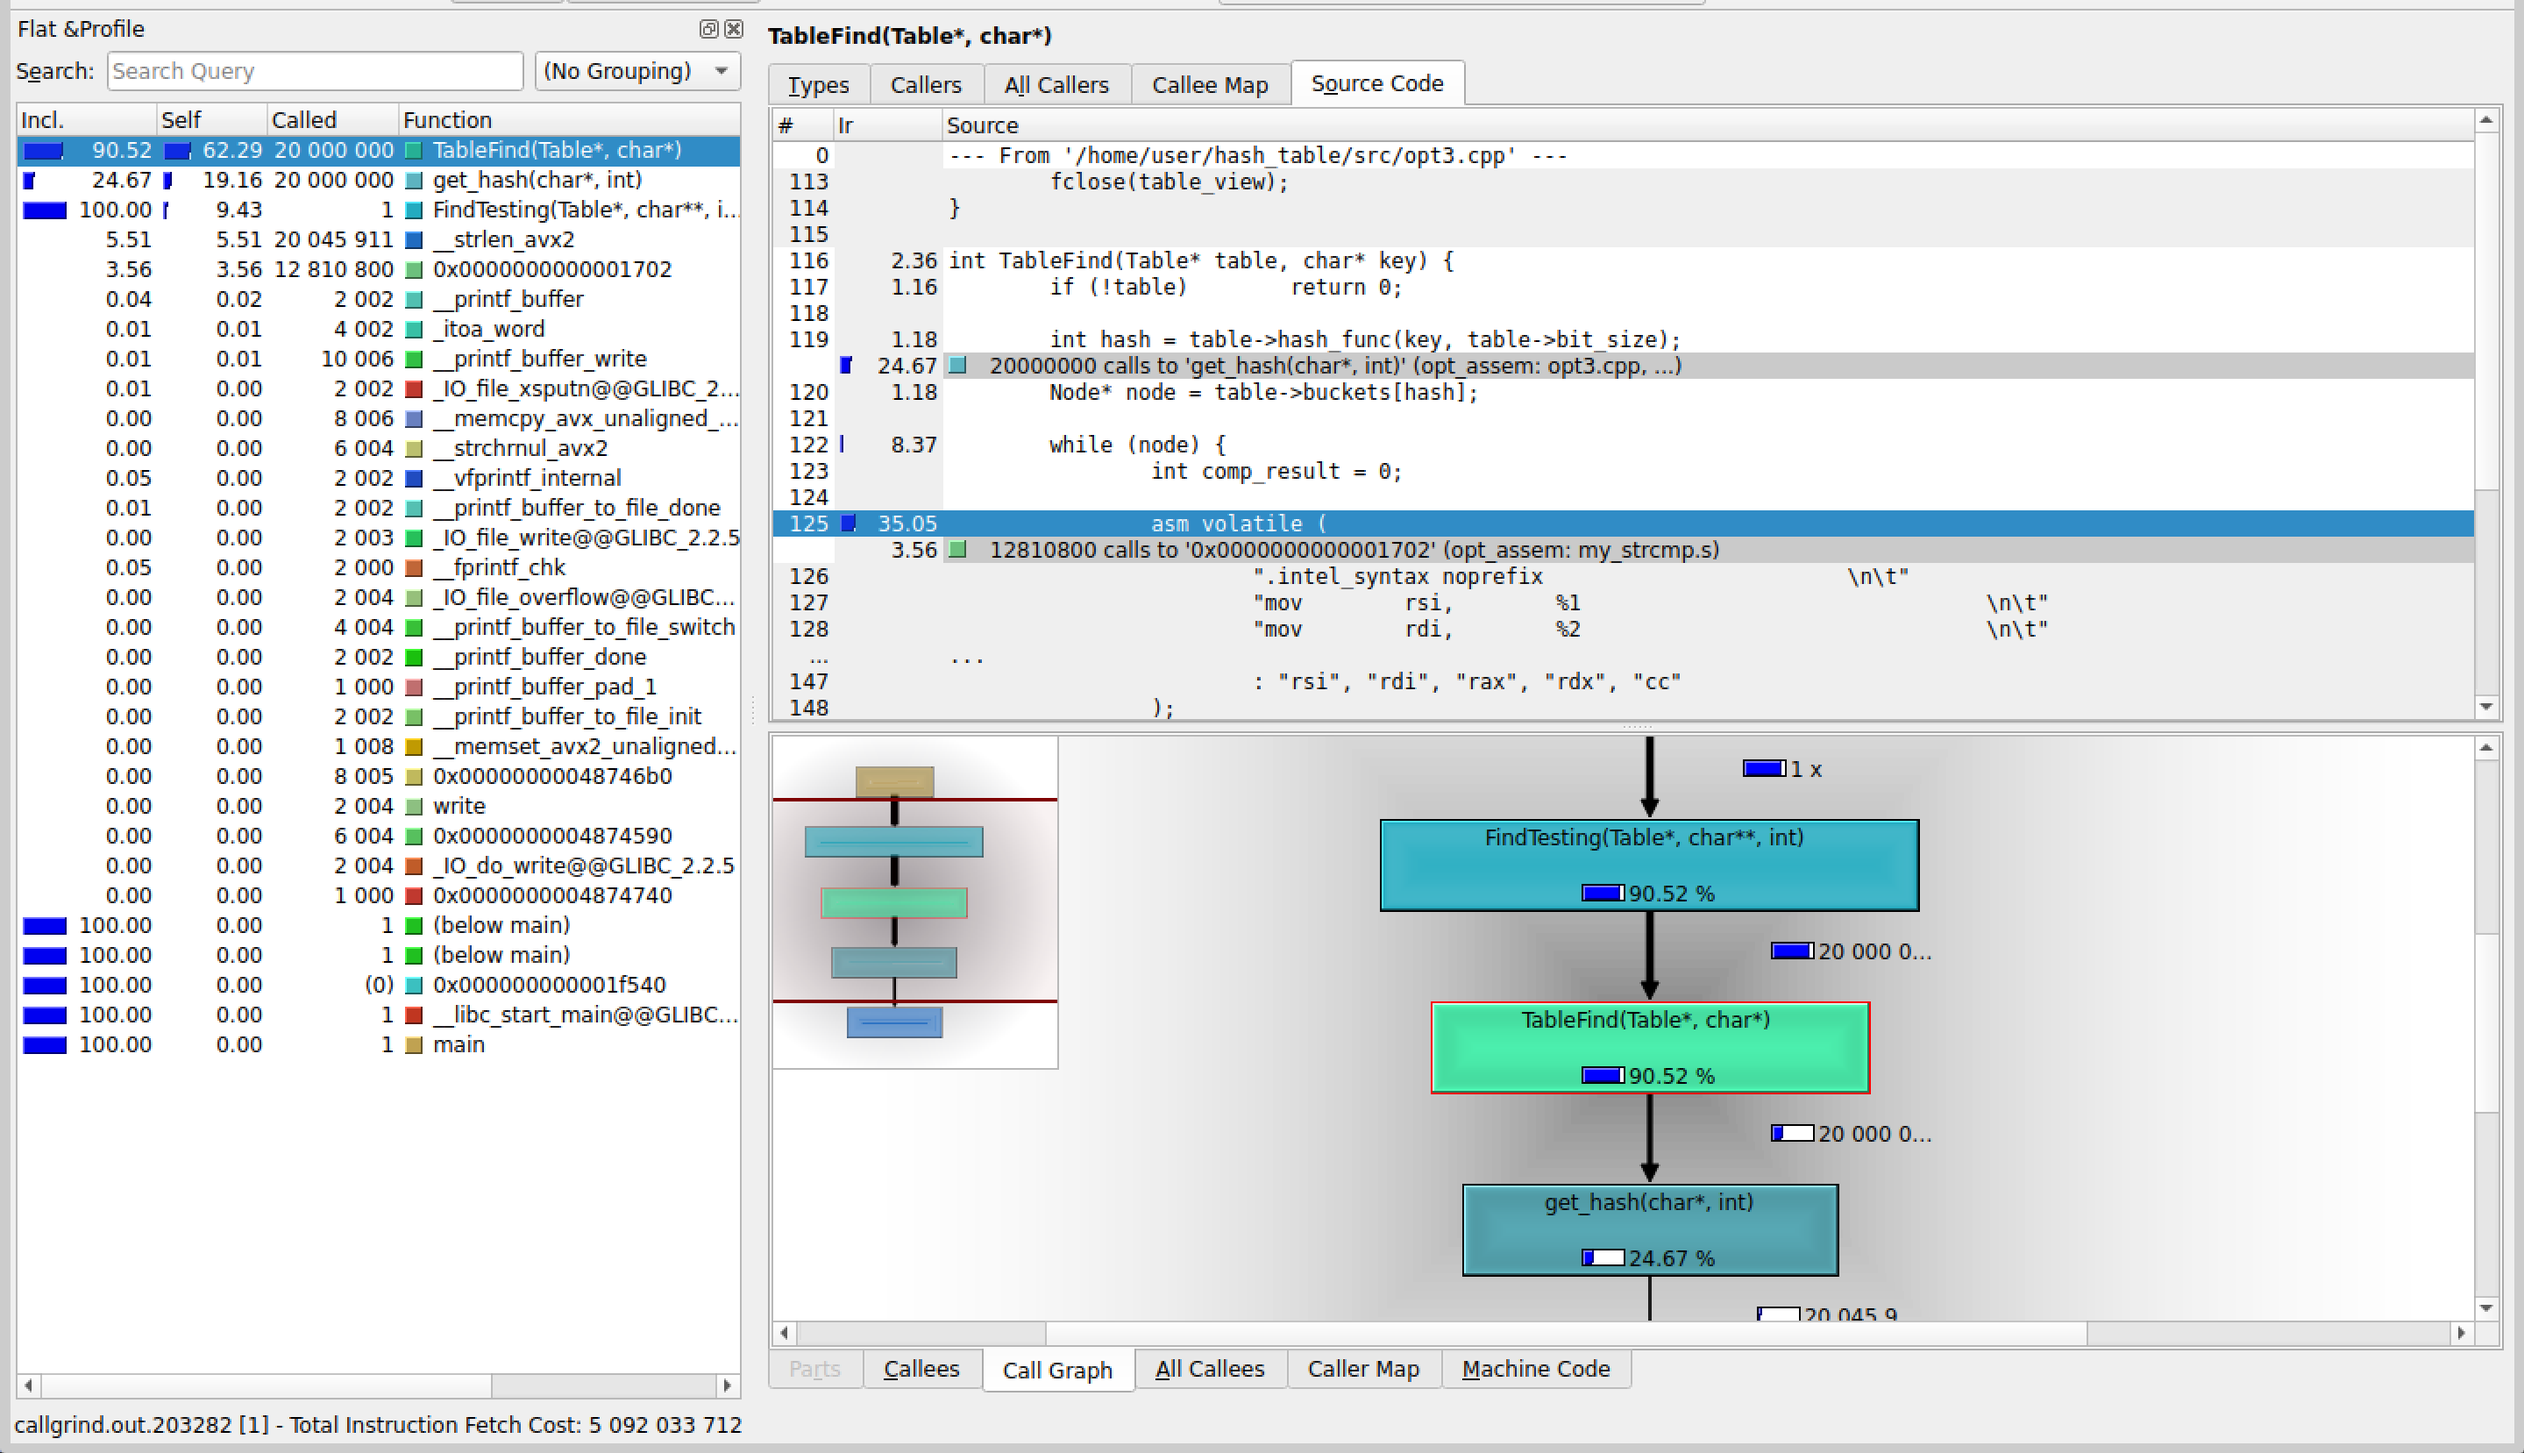
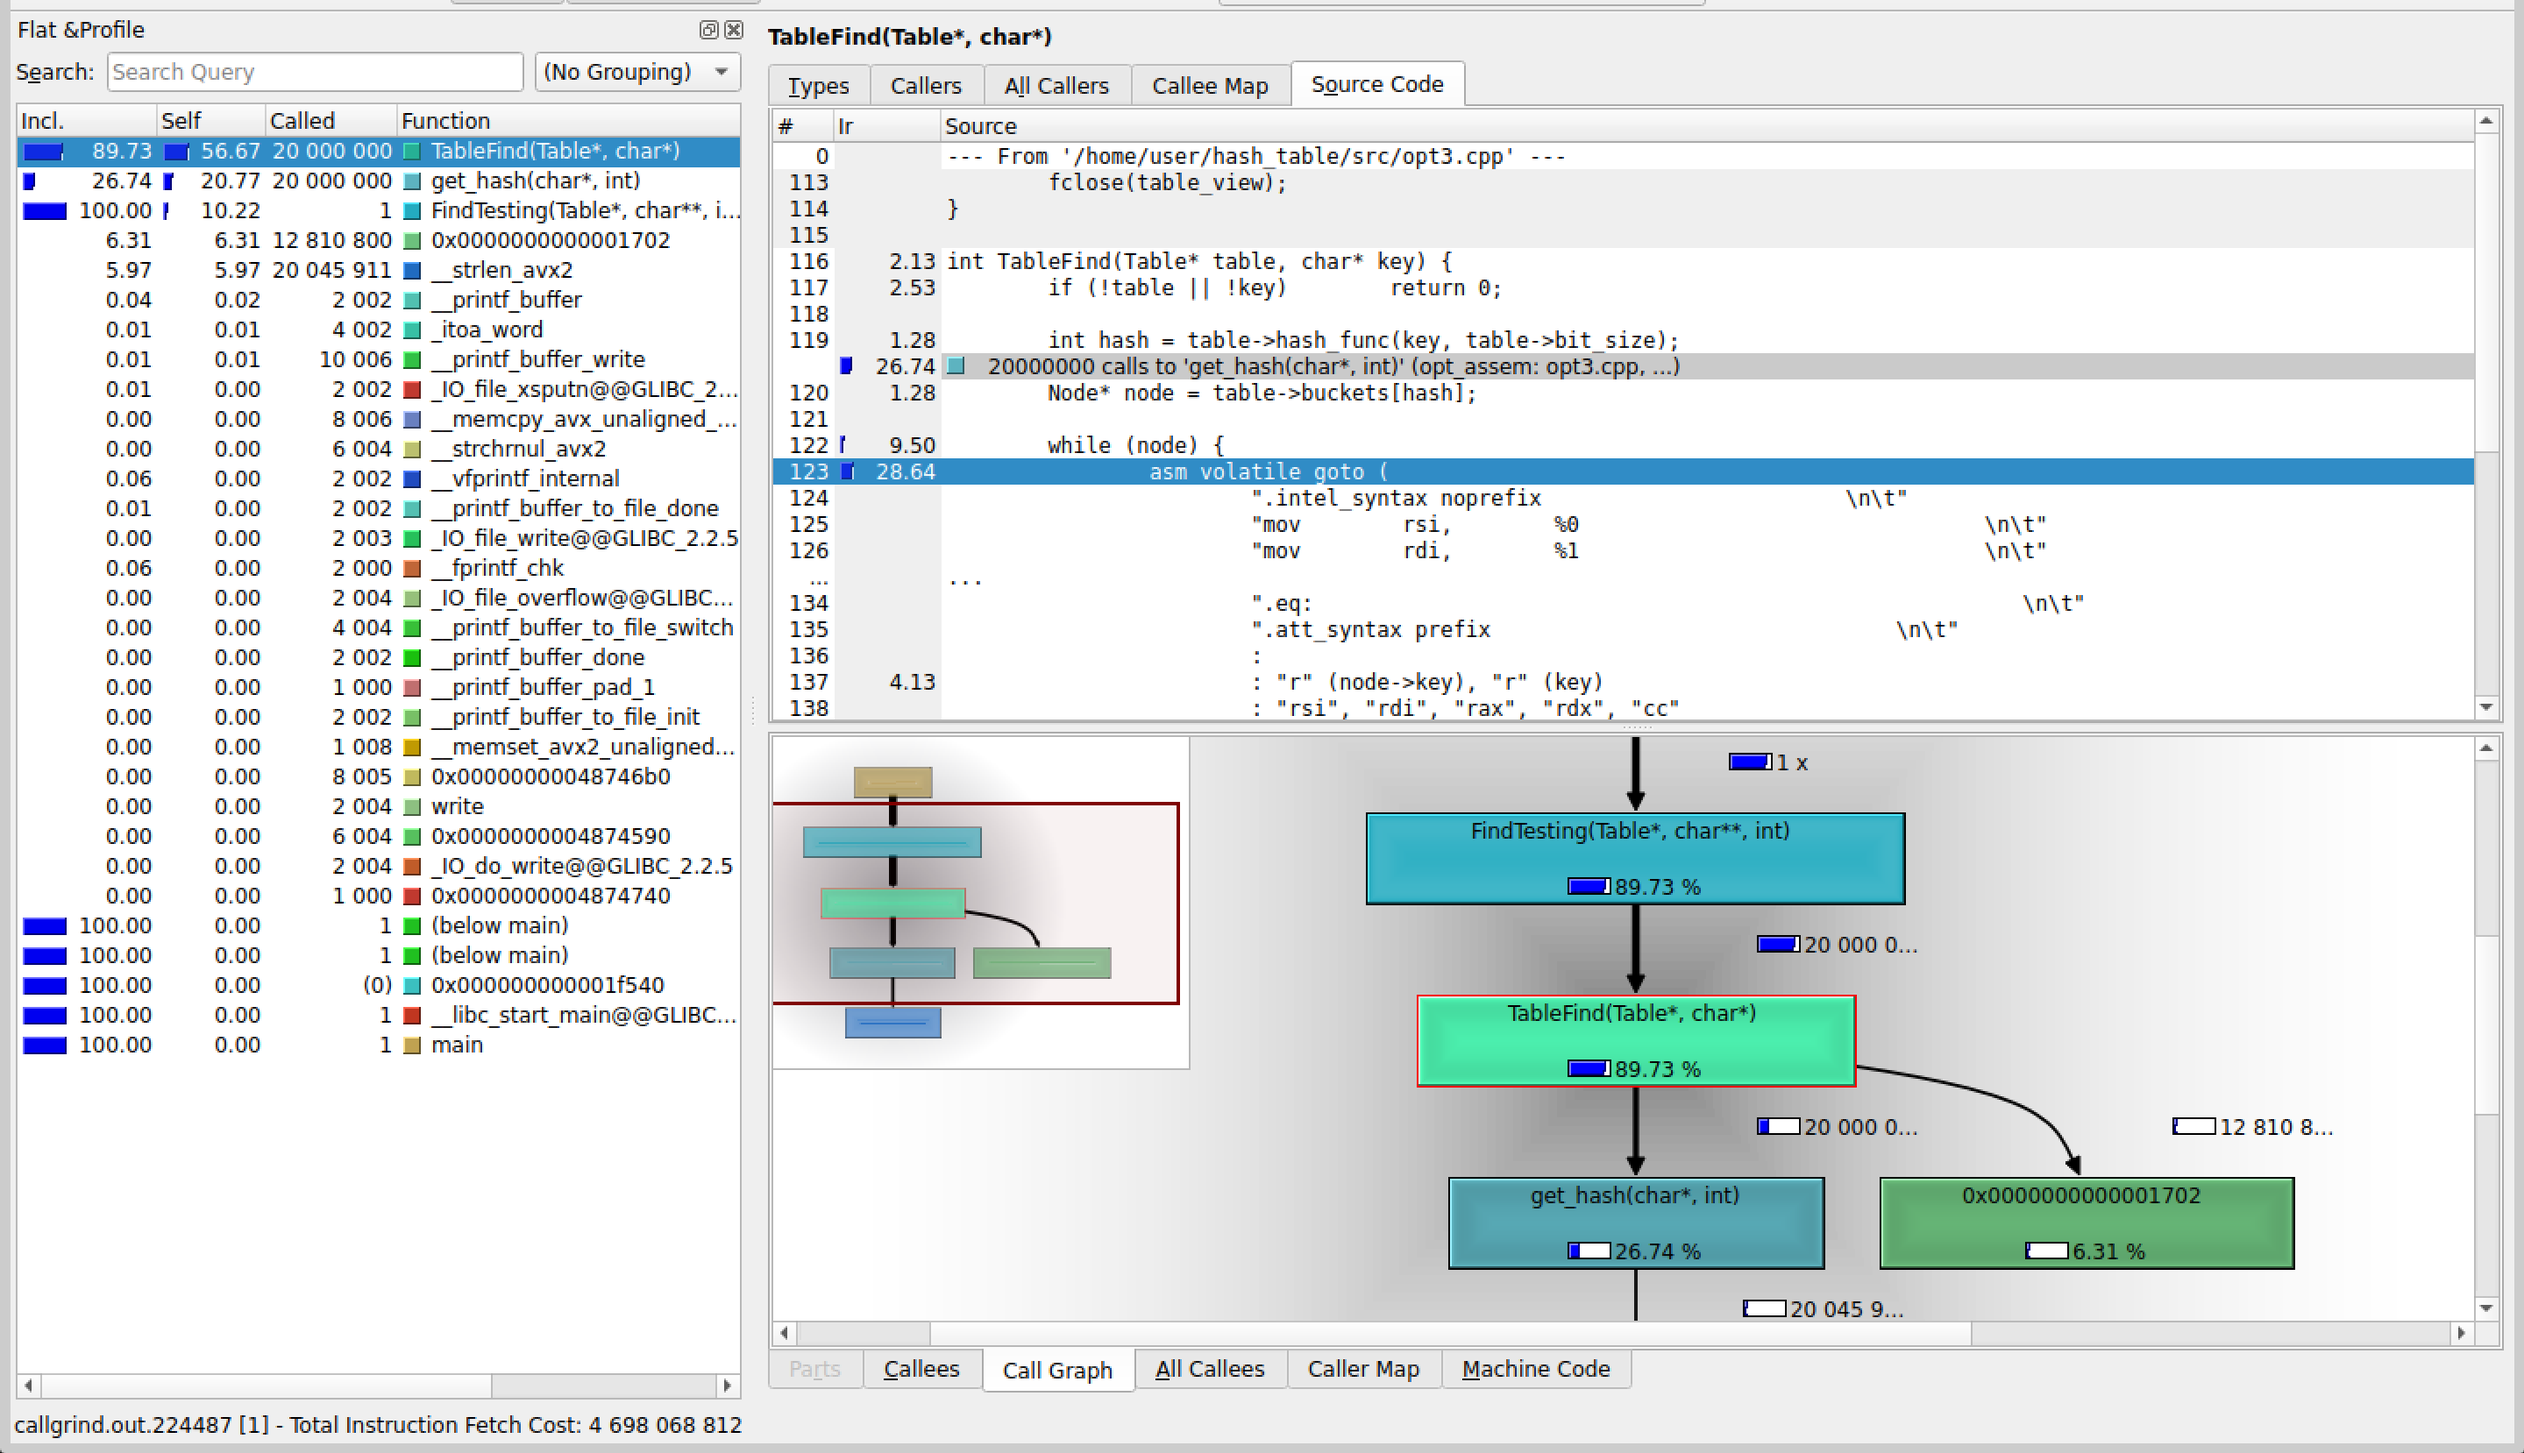
Пересчитанные результаты

diff --git a/results/all_res.md b/results/all_res.md
@@ -2,20 +2,20 @@
 
 | Номер замера | Среднее количество тиков |
 | :---: | :---: |
-| 1 | 445 |
-| 2 | 446 |
-| 3 | 447 |
-| 4 | 447 |
-| 5 | 448 |
-| 6 | 449 |
-| 7 | 450 |
+| 1 | 428 |
+| 2 | 430 |
+| 3 | 451 |
+| 4 | 456 |
+| 5 | 464 |
+| 6 | 465 |
+| 7 | 474 |
 
-Результаты без минимума и максимума: $446$, $447$, $447$, $448$, $449$
+Результаты без минимума и максимума: $430$, $451$, $456$, $464$, $465$
 
-Среднее количество тиков на <i>TableFind</i>: $447 
-													\pm 2$
+Среднее количество тиков на <i>TableFind</i>: $453 
+													\pm 16$
 
-Относительная погрешность: $0.36\%$
+Относительная погрешность: $3.61\%$
 
 ![До оптимизаций](../images/base.png)
 
@@ -54,30 +54,30 @@ my_strcmp:
 
 | Номер замера | Среднее количество тиков |
 | :---: | :---: |
-| 1 | 377 |
-| 2 | 380 |
-| 3 | 383 |
-| 4 | 387 |
-| 5 | 392 |
-| 6 | 393 |
-| 7 | 400 |
+| 1 | 383 |
+| 2 | 393 |
+| 3 | 395 |
+| 4 | 396 |
+| 5 | 399 |
+| 6 | 400 |
+| 7 | 410 |
 
-Результаты без минимума и максимума: $380$, $383$, $387$, $392$, $393$
+Результаты без минимума и максимума: $393$, $395$, $396$, $399$, $400$
 
-Среднее количество тиков на <i>TableFind</i>: $387 
+Среднее количество тиков на <i>TableFind</i>: $397 
 													\pm 8$
 
-Относительная погрешность: $1.94\%$
+Относительная погрешность: $1.90\%$
 
-Получили ускорение на $\frac{447 - 387}{447} * 100 =
-			13.42\% \pm 0.26$ $\%$ относительно -O3.
+Получили ускорение на $\frac{453 - 397}{453} * 100 =
+			12.36\% \pm 0.50$ $\%$ относительно -O3.
 
 Относительная погрешность ускорения: 
-			$\sqrt{0.36^2+1.94^2} =
-			1.97\%$
+			$\sqrt{3.61^2+1.90^2} =
+			4.08\%$
 
-Абсолютная погрешность: $13.42\% * 0.0197 = 
-			0.26\%$
+Абсолютная погрешность: $12.36\% * 0.0408 = 
+			0.50\%$
 
 ![1-я оптимизация](../images/opt_strcmp.png)
 
@@ -102,43 +102,43 @@ inline unsigned int opt_crc32(const uchar* data, int len) {
 
 | Номер замера | Среднее количество тиков |
 | :---: | :---: |
-| 1 | 369 |
-| 2 | 369 |
-| 3 | 371 |
-| 4 | 372 |
-| 5 | 374 |
-| 6 | 376 |
-| 7 | 387 |
+| 1 | 352 |
+| 2 | 358 |
+| 3 | 359 |
+| 4 | 360 |
+| 5 | 360 |
+| 6 | 360 |
+| 7 | 363 |
 
-Результаты без минимума и максимума: $369$, $371$, $372$, $374$, $376$
+Результаты без минимума и максимума: $358$, $359$, $360$, $360$, $360$
 
-Среднее количество тиков на <i>TableFind</i>: $372 
-													\pm 6$
+Среднее количество тиков на <i>TableFind</i>: $359 
+													\pm 3$
 
-Относительная погрешность: $1.62\%$
+Относительная погрешность: $0.89\%$
 
 Полученное ускорение:
 
-$\cdot$ на $\frac{387 - 372}{387} * 100 =
-			3.88\% \pm 0.10$ $\%$ относительно предыдущей версии.
+$\cdot$ на $\frac{397 - 359}{397} * 100 =
+			9.57\% \pm 0.20$ $\%$ относительно предыдущей версии.
 
 Относительная погрешность ускорения: 
-			$\sqrt{1.94^2+1.62^2} =
-			2.53\%$
+			$\sqrt{1.90^2+0.89^2} =
+			2.10\%$
 
-Абсолютная погрешность: $3.88\% * 0.0253 = 
-			0.10\%$
+Абсолютная погрешность: $9.57\% * 0.0210 = 
+			0.20\%$
 
 
-$\cdot$ на $\frac{447 - 372}{447} * 100 =
-			16.78\% \pm 0.28$ $\%$ относительно -O3.
+$\cdot$ на $\frac{453 - 359}{453} * 100 =
+			20.75\% \pm 0.77$ $\%$ относительно -O3.
 
 Относительная погрешность ускорения: 
-			$\sqrt{0.36^2+1.62^2} =
-			1.66\%$
+			$\sqrt{3.61^2+0.89^2} =
+			3.72\%$
 
-Абсолютная погрешность: $16.78\% * 0.0166 = 
-			0.28\%$
+Абсолютная погрешность: $20.75\% * 0.0372 = 
+			0.77\%$
 
 ![2-я оптимизация](../images/opt_crc32.png)
 
@@ -188,17 +188,17 @@ TableFind(Table*, char*):
         ret
 ```
 
-## Ассемблерная вставка, проверяющая первые два символа
+## Ассемблерная вставка, проверяющая первые символы строк
 
 ```c
 int TableFind(Table* table, char* key) {
-	if (!table)	return 0;
+	if (!table || !key)	return 0;
 
 	int hash = table->hash_func(key, table->bit_size);
 	Node* node = table->buckets[hash];
 
 	while (node) {
-		asm volatile (
+		asm volatile goto (
 			".intel_syntax noprefix			\n\t"
 			"mov	rsi,	%0				\n\t"
 			"mov	rdi,	%1				\n\t"
@@ -207,18 +207,19 @@ int TableFind(Table* table, char* key) {
 
 			"cmp	al,		dl				\n\t"
 			"je		.eq						\n\t"
-			"mov	eax, 	1				\n\t"
-			"ret							\n\t"
+			"jmp	%l[next_elem]			\n\t"
 
 			".eq:							\n\t"
 			".att_syntax prefix				\n\t"
 			:
 			: "r" (node->key), "r" (key)
 			: "rsi", "rdi", "rax", "rdx", "cc"
+			: next_elem
 		);
 
 		if (my_strcmp(node->key, key) == 0) return 1;
 
+	next_elem:
 		node = node->next;
 	}
 
@@ -228,42 +229,42 @@ int TableFind(Table* table, char* key) {
 
 | Номер замера | Среднее количество тиков |
 | :---: | :---: |
-| 1 | 99 |
-| 2 | 101 |
-| 3 | 102 |
-| 4 | 102 |
-| 5 | 102 |
-| 6 | 102 |
-| 7 | 105 |
+| 1 | 338 |
+| 2 | 340 |
+| 3 | 343 |
+| 4 | 344 |
+| 5 | 344 |
+| 6 | 345 |
+| 7 | 347 |
 
-Результаты без минимума и максимума: $101$, $102$, $102$, $102$, $102$
+Результаты без минимума и максимума: $340$, $343$, $344$, $344$, $345$
 
-Среднее количество тиков на <i>TableFind</i>: $102 
-													\pm 2$
+Среднее количество тиков на <i>TableFind</i>: $343 
+													\pm 3$
 
-Относительная погрешность: $1.61\%$
+Относительная погрешность: $0.83\%$
 
 Полученное ускорение:
 
-$\cdot$ на $\frac{372 - 102}{372} * 100 =
-			72.58\% \pm 1.65$ $\%$ относительно предыдущей версии.
+$\cdot$ на $\frac{359 - 343}{359} * 100 =
+			4.46\% \pm 0.05$ $\%$ относительно предыдущей версии.
 
 Относительная погрешность ускорения: 
-			$\sqrt{1.62^2+1.61^2} =
-			2.28\%$
+			$\sqrt{0.89^2+0.83^2} =
+			1.22\%$
 
-Абсолютная погрешность: $72.58\% * 0.0228 = 
-			1.65\%$
+Абсолютная погрешность: $4.46\% * 0.0122 = 
+			0.05\%$
 
 
-$\cdot$ на $\frac{447 - 102}{447} * 100 =
-			77.18\% \pm 1.27$ $\%$ относительно -O3.
+$\cdot$ на $\frac{453 - 343}{453} * 100 =
+			24.28\% \pm 0.90$ $\%$ относительно -O3.
 
 Относительная погрешность ускорения: 
-			$\sqrt{0.36^2+1.61^2} =
-			1.65\%$
+			$\sqrt{3.61^2+0.83^2} =
+			3.70\%$
 
-Абсолютная погрешность: $77.18\% * 0.0165 = 
-			1.27\%$
+Абсолютная погрешность: $24.28\% * 0.0370 = 
+			0.90\%$
 
 ![3-я оптимизация](../images/opt_assem.png)

diff --git a/results/opt_assem.md b/results/opt_assem.md
@@ -1,3 +1,3 @@
-| Command | Mean [ms] | Min [ms] | Max [ms] | Relative |
+| Command | Mean [s] | Min [s] | Max [s] | Relative |
 |:---|---:|---:|---:|---:|
-| `./bin/opt_assem` | 835.7 ± 16.0 | 809.2 | 863.4 | 1.00 |
+| `./bin/opt_assem` | 1.940 ± 0.018 | 1.910 | 1.965 | 1.00 |

diff --git a/results/assem_vs_regs.md b/results/assem_vs_regs.md
@@ -1,0 +1,4 @@
+| Command | Mean [s] | Min [s] | Max [s] | Relative |
+|:---|---:|---:|---:|---:|
+| `./bin/opt_regs` | 1.990 ± 0.086 | 1.883 | 2.107 | 1.04 ± 0.05 |
+| `./bin/opt_assem` | 1.915 ± 0.040 | 1.854 | 1.955 | 1.00 |

diff --git a/results/opt_strcmp.md b/results/opt_strcmp.md
@@ -1,3 +1,3 @@
 | Command | Mean [s] | Min [s] | Max [s] | Relative |
 |:---|---:|---:|---:|---:|
-| `./bin/opt_strcmp` | 2.328 ± 0.046 | 2.272 | 2.401 | 1.00 |
+| `./bin/opt_strcmp` | 2.249 ± 0.076 | 2.169 | 2.383 | 1.00 |

diff --git a/results/opt_crc32.md b/results/opt_crc32.md
@@ -1,3 +1,3 @@
 | Command | Mean [s] | Min [s] | Max [s] | Relative |
 |:---|---:|---:|---:|---:|
-| `./bin/opt_crc32` | 2.261 ± 0.039 | 2.230 | 2.343 | 1.00 |
+| `./bin/opt_crc32` | 1.988 ± 0.017 | 1.955 | 2.008 | 1.00 |

diff --git a/results/base.md b/results/base.md
@@ -1,3 +1,3 @@
 | Command | Mean [s] | Min [s] | Max [s] | Relative |
 |:---|---:|---:|---:|---:|
-| `./bin/base` | 2.671 ± 0.011 | 2.655 | 2.688 | 1.00 |
+| `./bin/base` | 2.521 ± 0.138 | 2.348 | 2.718 | 1.00 |
